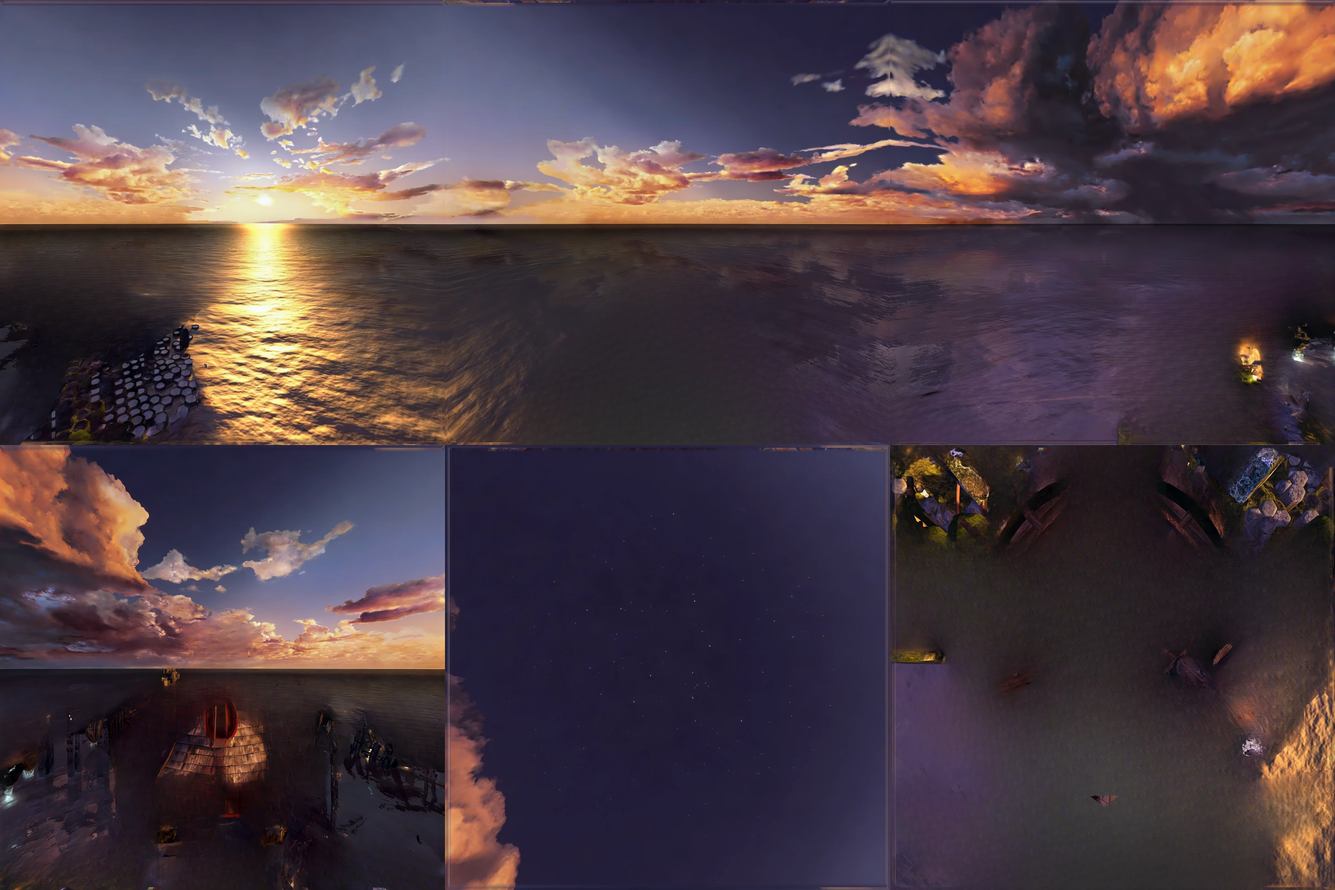
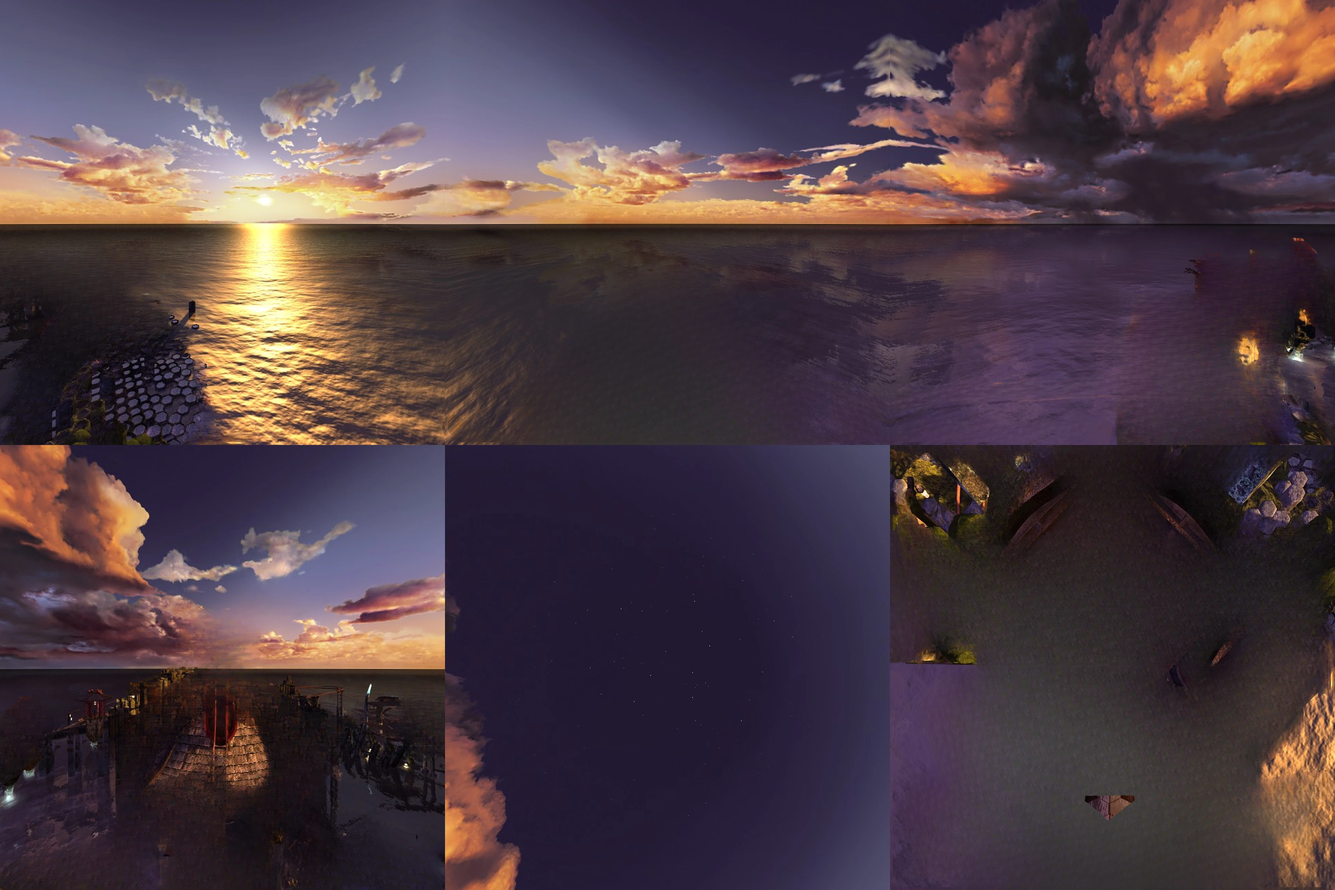
Amateria MAWW 101's Layered version rebuilt from the game's 640 px faces, not the AI 4K upscale
The node file now takes _orig.jpeg (enlarged to 1280 by sharpen_depth.py), as
J'nanin's LEIS 77 does, and the four atlases were rebuilt from it with
build_node.py and stitched. The fit to the measured depth is a little looser
on faces 10 and 11, the seams the same, and the colour softer without the
upscaler's invented detail. The README also records the three moved runs
applied to the movie workspace: 1,018,364 points once ghosts are dropped,
with the ride's frames now the main source of ghosts.

Claude-Session: https://claude.ai/code/session_01PGTZsQJKeQ77ippduWGzGV

diff --git a/cube/index.html b/cube/index.html
@@ -370,9 +370,10 @@
           { label: '4K',       suffix: '_seamless.webp', ai: true },
           // The same node as two layers, so a near object no longer stretches
           // across what it hid when the eye moves. The depth is redrawn at
-          // 1280px from the 4K faces (myst3/colmap/sharpen_depth.py, fitted
-          // to the measured depth), so its outlines follow the picture.
-          // Foreground: the 4K faces at 1280px and that depth, with a 6px
+          // 1280px from the game's own 640px faces (myst3/colmap/
+          // sharpen_depth.py, fitted to the measured depth), so its outlines
+          // follow the picture; the 4K faces are an AI upscale and are not used.
+          // Foreground: the 640px faces at 1280px and that depth, with a 6px
           // hole (green 0) on the far side of every step and the near depth
           // carried under it, so the mesh's ramp at a step is cut by the
           // picture's pixels, as in Voltaic. Backdrop: the near side of

diff --git a/cube/myst3/README.md b/cube/myst3/README.md
@@ -38,7 +38,7 @@ the record.
 
 | node | file | how its settings differ |
 |---|---|---|
-| Amateria MAWW 101 | `maww101.json` | not in the model; floor face keeps the nearest step; built from the AI 4K faces |
+| Amateria MAWW 101 | `maww101.json` | not in the model; floor face keeps the nearest step |
 | Amateria MASS 84 | `mass84.json` | backdrop from 20 nodes within 45°; nearest step throughout |
 | Voltaic ENSI 16 | `ensi16.json` | backdrop colour test at 4, not 1.6 |
 | J'nanin LEIS 77 | `leis77.json` | defaults; captured faces only |
@@ -178,7 +178,7 @@ checks the geometry; nothing has been reconstructed yet.
 | `m3a_list.py` | Lists every resource of a `<ROOM>nodes.m3a` (types, sizes, magic) and extracts any, such as the Bink movies. |
 | `colmap/video_frames.py` | A movie's frames as extra views of a laid-out room or age: frames, brightened copies, sequential and key-frame x face pairs. Needs opencv-python and ffmpeg. |
 | `colmap/register_video.ps1` | Measures a movie's camera from the movie alone, then continues a finished model with the frames (the mapper with the model's frames held). |
-| `colmap/sharpen_depth.py` | A site node's measured depth redrawn at 1280 px from the 4K faces: Depth Anything V2 Large at an input of 1036 px, fitted to the measured depth away from its outlines, seams closed; outlines that follow the picture, for Amateria's *Layered* version. Needs torch, transformers, opencv-python. |
+| `colmap/sharpen_depth.py` | A site node's measured depth redrawn at 1280 px from the node's faces (the game's 640 px ones, enlarged): Depth Anything V2 Large at an input of 1036 px, fitted to the measured depth away from its outlines, seams closed; outlines that follow the picture, for Amateria's *Layered* version. Needs torch, transformers, opencv-python. |
 | `layers/build_node.py` | Builds a site node's Layered version from its file in `layers/nodes/` (every setting, and why it differs from the default): `colmap/sharpen_depth.py`, `colmap/model_backdrop.py`, `layers/build_layers.py`, then prints the `layers/stitch_layers.js` command. |
 | `layers/build_layers.py` | The four slots' face images of a Layered version: holes on the far side of every depth step, the backdrop from `model_backdrop.py` where other nodes saw it and LaMa elsewhere. Needs numpy, Pillow, opencv-python, torch. |
 | `layers/grate_layers.py` | Voltaic's ENCH grate node, the one built its own way: holes from the wire mesh's colour, floor by push-pull. |
@@ -777,6 +777,14 @@ tower's diagonal ghost is gone. What is left is MALL 4–13 (38–55%, unchanged
 MASS 7–12 and 44 (4–13%) and MAIS 6–8 (4%). Packed for `colmap/viewer/` as
 `amateria-moved`.
 
+The same moves applied to the movie workspace (`dense_movies_moved`), fused
+without the nodes still misplaced (MACA 1, 5 and 6, MAIS 10 and 11, MALL 5–13
+and 18): 1,095,589 points, of which 77,225 are ghosts, 68,582 of them made by
+the ride's frames (30.4% of the ride's points). The moved runs' own share is
+under 1.1%. With the ghosts dropped: 1,018,364 points
+(`amateria-movies-moved`), against 1,000,420 without the three runs. The
+ride's frames are now the main source of ghosts.
+
 ## Depth for the site's Amateria node (MAWW 101)
 
 The site's Amateria location is MAWW node 101, node 1 with the console closed
@@ -824,6 +832,15 @@ px. At its own input size of 518 px the network drew the spire roof as a
 rounded blob whose eaves reached ~10 px past it; at 1036 the outline follows
 the eaves. The redrawn maps stay a median 2–7% from the measured ones (90%
 within 6–16%).
+
+On 8 November 2026 MAWW 101 was rebuilt from the game's 640 px faces
+(`_orig.jpeg`, enlarged to 1280) instead of the 4K faces, which are an AI
+upscale, at the maintainer's request (`layers/nodes/maww101.json`). The fit is
+a little looser on two faces (median 9.3% and 6.2% on faces 10 and 11, from
+7.0% and 3.1%; the others within 0.4 points), the seams before blending the
+same (median 12.6%, 90% within 40.4%), and the painted share of each face
+within a point of before. The colour layers are softer: the upscaler's
+invented detail is gone.
 
 ## Depth for a node the model places (MASS 84)
 
